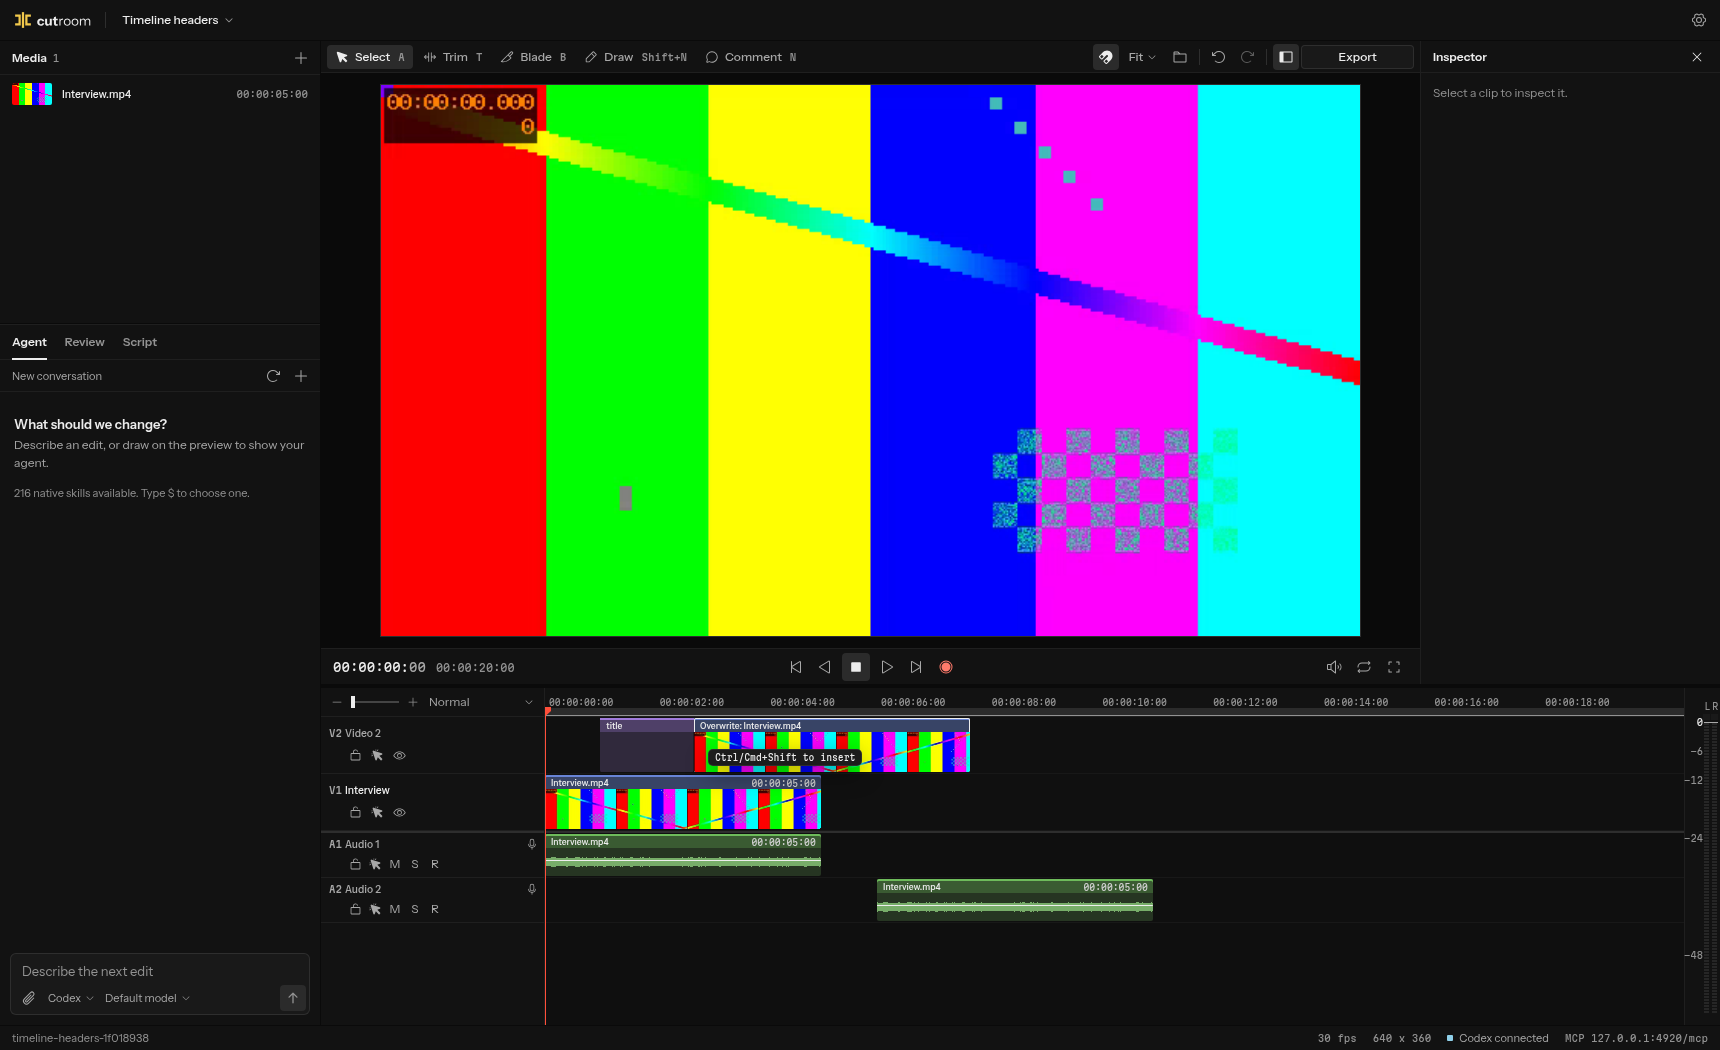
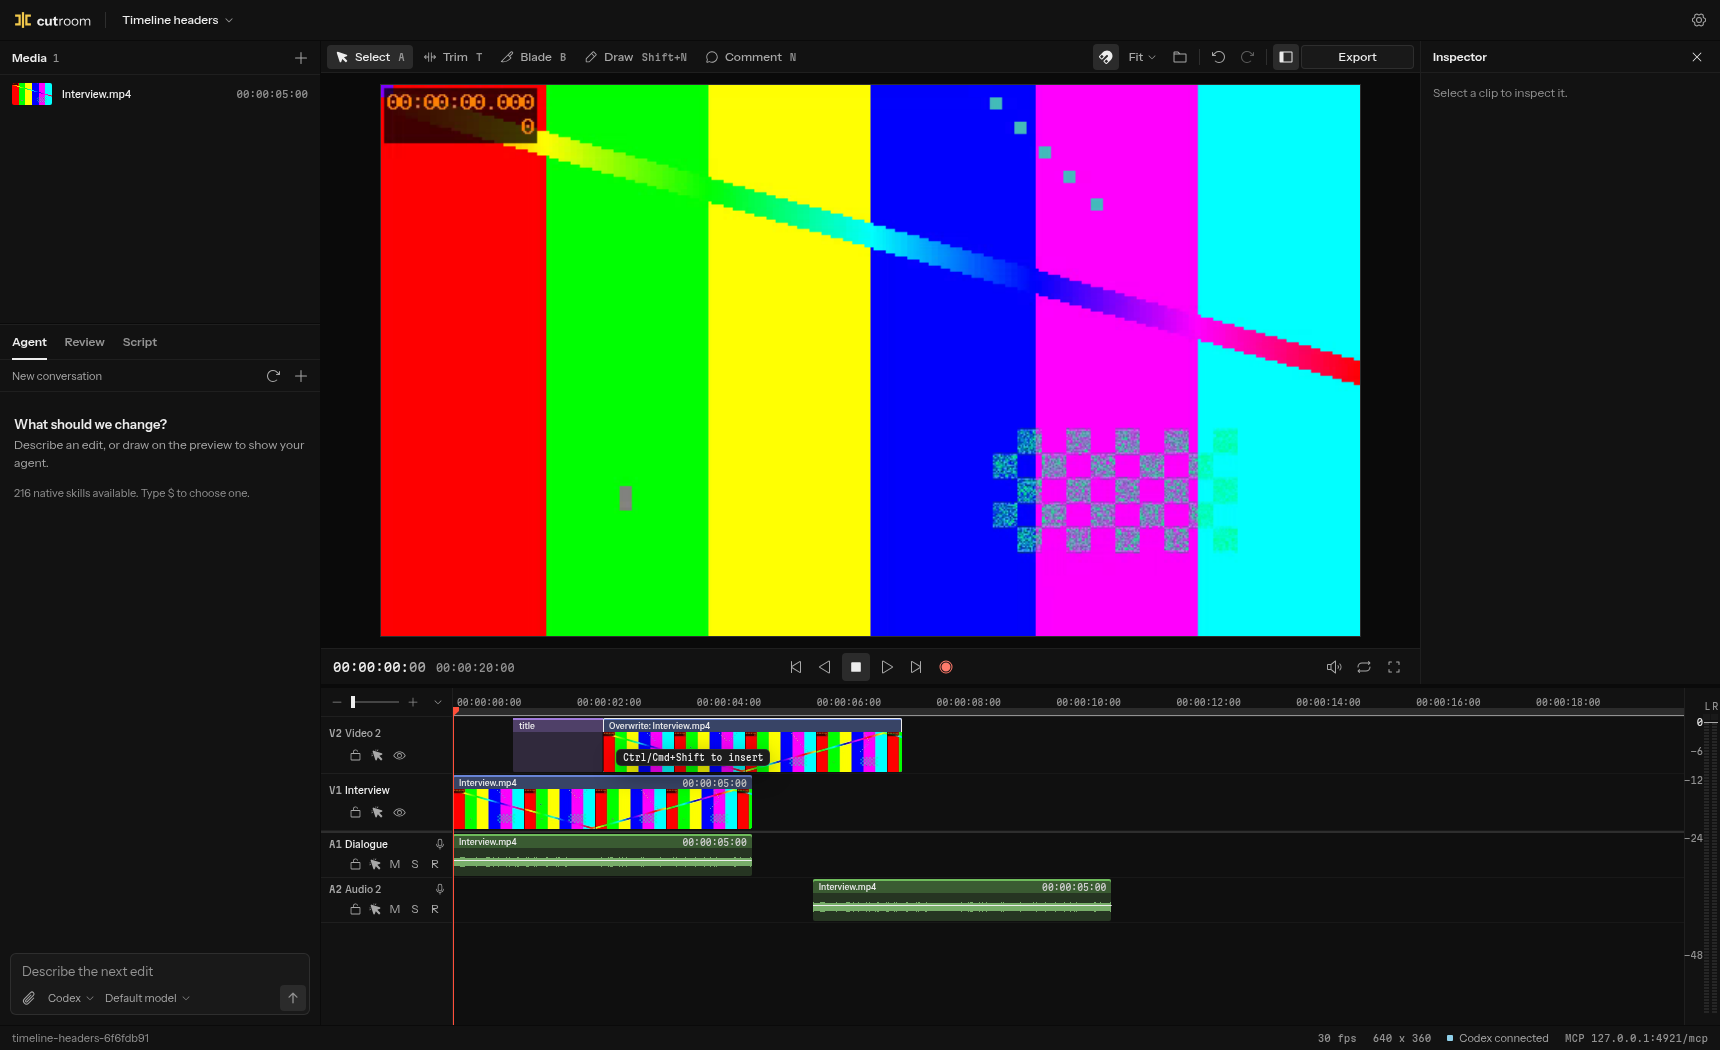
docs: refresh timeline comparisons with 132 pixel headers

diff --git a/timeline-headers/README.md b/timeline-headers/README.md
@@ -1,6 +1,6 @@
 # Timeline headers
 
-Matched screenshots of the same generated video project, before and after the timeline header fixes. Compact captures include video, audio, and an armed microphone with its live input meter. Track heights are 28, 32, 36, and 39 px.
+Matched screenshots of the same generated video project, freshly captured from main at 1284735 and from the updated timeline header branch. Both keep the 132 px header column. Compact captures include video, audio, and an armed microphone at 28, 32, 36, and 39 px track heights.
 
 | Scenario | Before | After |
 | --- | --- | --- |
@@ -15,4 +15,4 @@ Matched screenshots of the same generated video project, before and after the ti
 
 Resting screenshots accompany each drag capture. The first video lane starts at y=467 at 1280×800 and y=717 at 1720×1050. Before the fix, starting a media drag moves it down 57 px. After the fix, every lane keeps its resting position. The new video target overlays the ruler's bottom edge and previews the full track at its eventual position.
 
-The header column grows from 132 to 224 px so compact rows can retain the name, 20 px buttons, microphone, and input meter on one line. Density uses the app's shared keyboard-operated SelectMenu.
+Compact rows show short track codes and every toggle with 18 px targets. The full track name stays in the code tooltip and accessible group label. The inline input meter is hidden only in Compact; Normal and Tall retain the name row, meter, and separate 20 px control row. Density uses the app's shared keyboard-operated SelectMenu.
